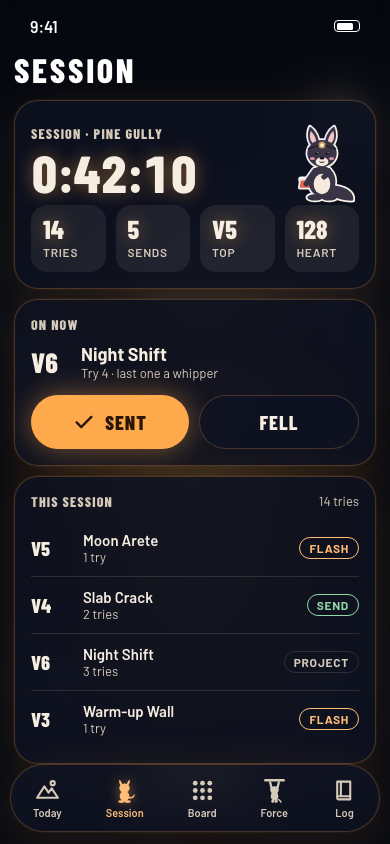
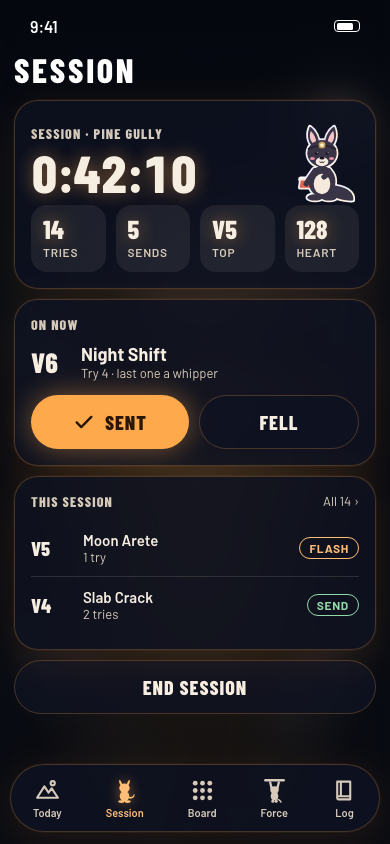
#1060 design: crag — session and force fit one screen with no scrolling on phone and watch

diff --git a/docs/design/crag/app.js b/docs/design/crag/app.js
@@ -165,7 +165,8 @@ const SCREENS = {
       ${tiles([["14", "Tries"], ["5", "Sends"], ["V5", "Top"], ["128", "Heart"]], 4)}`);
     const now = card(`${hd("On now")}<div class="row"><span class="grade" style="font-size:28px">V6</span><span class="n" style="font:700 18px var(--f-body)">Night Shift<small class="mute" style="display:block;font:400 13px var(--f-body)">Try 4 · last one a whipper</small></span></div>
       <div class="btns" style="margin-top:14px"><button class="btn">${ICON.check}Sent</button><button class="btn ghost">Fell</button></div>`);
-    const tries = card(`${hd("This session", "14 tries")}${list([["V5", "Moon Arete", "1 try", "Flash", "on"], ["V4", "Slab Crack", "2 tries", "Send", "good"], ["V6", "Night Shift", "3 tries", "Project", ""], ["V3", "Warm-up Wall", "1 try", "Flash", "on"]].map(tickRow))}`);
+    const ticks = [["V5", "Moon Arete", "1 try", "Flash", "on"], ["V4", "Slab Crack", "2 tries", "Send", "good"], ["V6", "Night Shift", "3 tries", "Project", ""], ["V3", "Warm-up Wall", "1 try", "Flash", "on"]];
+    const tries = card(`${hd("This session", WIDE ? "14 tries" : "All 14 ›")}${list(ticks.slice(0, WIDE ? 4 : 2).map(tickRow))}`);
     const end = `<button class="btn ghost">End session</button>`;
     return { tab: "session", html: layout("Session", [[live, now, WIDE ? end : null], [tries, WIDE ? null : end]], { tpl: "1fr 1fr" }) };
   },

diff --git a/docs/design/crag/README.md b/docs/design/crag/README.md
@@ -20,6 +20,7 @@ Open questions: (1) Do the weather icons work as re-lit copies of the original a
   - Original: today's icon, unchanged and still the default.
   - Weather: six copies of the original, re-lit for day, night, dawn, golden hour, rain and fog.
   - Sticker: eight poses on solid backgrounds: dyno, crimp, chalk-up, flash, send, fall, rest and PR.
+- **No scrolling during a session.** Session and Force each fit on one screen, on the phone (390 × 844) and on the watch. On the phone, Session shows only the last two ticks and links to the rest.
 - **Layouts follow #1046, #1056, #1047 and #1045.** Changes are listed below.
 
 ## Images
@@ -33,7 +34,7 @@ Open questions: (1) Do the weather icons work as re-lit copies of the original a
 | `today-golden-1440`, `today-rain-390` | Golden hour (warm light cards). Rain (slate glass, the roo sheltering under the boulder with its headlamp on). |
 | `states-390`, `states-1440` | Today in all six looks side by side, each with what changes. |
 | `conditions` | The chip opens the detail sheet: friction 78 with a plain grade, how today ranks, temperature, humidity, dew point and wind, a 30-day bar chart with the average line, the best window today, and the source (Open-Meteo). |
-| `session` | A live session: a big timer, tries, sends, top grade and heart rate from the watch. **On now** has **Sent** and **Fell**, and a "whipper" note on the last fall. Below: this session's ticks, and **End session**. |
+| `session` | A live session: a big timer, tries, sends, top grade and heart rate from the watch. **On now** has **Sent** and **Fell**, and a "whipper" note on the last fall. Below: the last two ticks with **All 14 ›**, then **End session**. It fits on one phone screen with no scrolling; at 1440 the full list sits in the right column. |
 | `board` | Board home: the wall card (connected), search, filter chips and the route list with stars and Sent, Flash or Project tags. **New route** and **From screenshot** are the two ways to add a route. At 1440 the wall's lights, angle, wiring check and import are in a side card. |
 | `route` | Route detail: the lit board in the four hold roles (green start, blue hand, pink finish, orange foot), plus **Light it** and **Log send**. At 1440 your ticks sit beside it. |
 | `send` | The **Flashed!** moment as a sheet over the route: the flash roo, the route, tries, sends today and top grade, with **Undo** and **Done**. |
